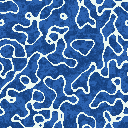
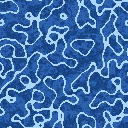
Azure sky gradient via the crest-glow HDMA channel; pale-blue lattice
The sky gradient costs nothing new: the COLDATA channel already writes
every scanline, so the baked tables now ramp additive white through the
sky region (0 at the zenith, SKY_GRAD_MAX at the horizon, eased 1.3)
and the backdrop joins colour math (CGADSUB 0x21). Backdrop = deep
azure (16,60,150), paling toward the horizon per scanline. ~2.4KB ROM
across the 32 phases.

Water: the near-white lattice (pattern palette entry 7) repainted pale
blue (172,214,246) so the crest-glow gradient reads against it instead
of white-on-white. (Patched in sea_pattern.png; match it in the water
designer before the next export.)

diff --git a/tools/bake_tables.py b/tools/bake_tables.py
@@ -35,7 +35,10 @@ SCANLINES = 224
 SKY_TM = 0x10        # sky lines: sprites + backdrop only
 SEA_TM = 0x13        # sea lines: BG1 + BG2 (EXTBG) + sprites
 UI_LINES = 24        # top band: BG mode 1 text UI (3 tile rows)
-SKY_RGB = (248, 168, 96)  # backdrop / palette index 0 (dusk orange)
+SKY_RGB = (16, 60, 150)  # backdrop / palette index 0 (deep azure zenith)
+# per-scanline additive sky gradient (COLDATA, riding the crest-glow HDMA
+# channel): 0 at the top of the sky, this much white added at the horizon
+SKY_GRAD_MAX = 17
 
 DEFAULTS = {
     "camH": 34.0, "pitch": -10.0, "fovV": 25.0, "fovH": 60.0,
@@ -156,6 +159,13 @@ def phase_tables(phi):
             n_sky, UI_LINES)
 
     g_entries = []
+    # sky gradient: the backdrop (deep azure) gets progressively more white
+    # added toward the horizon - same COLDATA channel the crest glow rides,
+    # with the backdrop enabled in colour math (CGADSUB bit 5, main.c)
+    span = max(1, n_sky - UI_LINES - 1)
+    for i in range(n_sky - UI_LINES):
+        b = round(SKY_GRAD_MAX * (i / span) ** 1.3)
+        g_entries.append((0xE0 | min(31, b),))
     for x in sea_x:
         # crest glow: sin() is 1 exactly at wave tops, fades down the flanks
         c = math.sin(K_WAVE * x + phi)
@@ -166,7 +176,7 @@ def phase_tables(phi):
     tab_tm = bytes(repeat_blocks(UI_LINES, 0x11)
                    + repeat_blocks(n_sky - UI_LINES, SKY_TM)
                    + bytearray((0x81, SEA_TM, 0x00)))
-    tab_g = hdma_table(n_sky, (0xE0,), g_entries)   # UI band + sky: add zero
+    tab_g = hdma_table(UI_LINES, (0xE0,), g_entries) # UI band: add zero
     return tab_tm, tab_g, n_sky
 
 

diff --git a/game/src/main.c b/game/src/main.c
@@ -412,11 +412,13 @@ int main(void)
     for (bi = 1; bi < NPC_SPR + NPC_COUNT; bi++)
         oamSetVisible(bi << 2, OBJ_HIDE); // NB: OAM ids are byte offsets (x4)
 
-    setPaletteColor(0, RGB8(248, 168, 96));
+    setPaletteColor(0, RGB8(16, 60, 150)); // deep azure zenith
 
-    // Additive colour math on BG1 with the fixed colour = crest glow
+    // Additive colour math with the fixed colour: BG1 = crest glow, and
+    // the backdrop too (bit 5) - the baked COLDATA table ramps white into
+    // the sky lines, so the azure pales toward the horizon for free
     REG_CGWSEL = 0x00;
-    REG_CGADSUB = 0x01;
+    REG_CGADSUB = 0x21;
 
     // Window 1 masks OBJ on the main screen; HDMA moves the window edges so
     // the region below the waterline swallows the sprite
